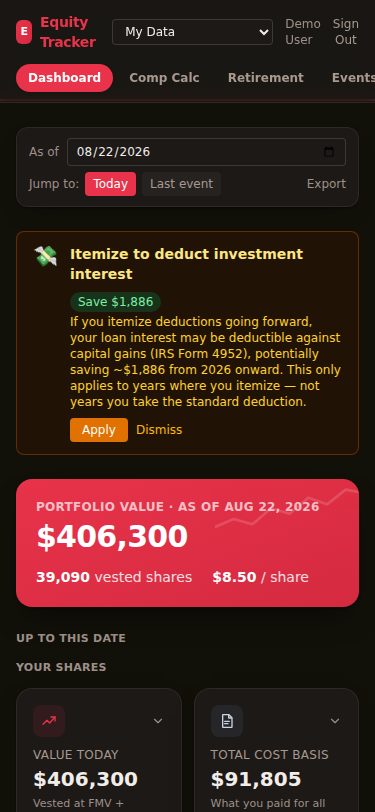
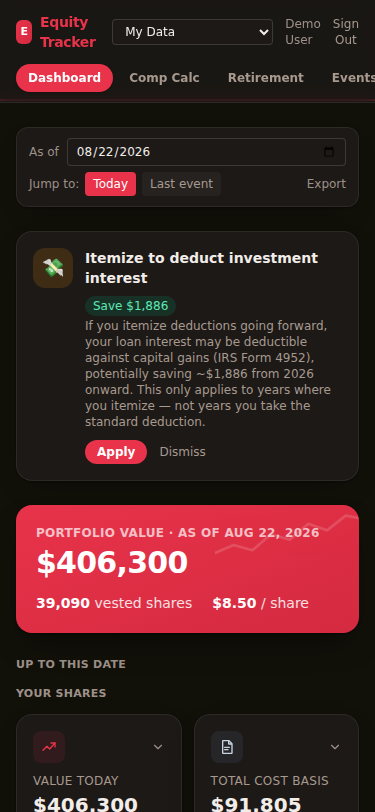
Bring tip/exit-preview cards onto the design system; extend mountain motif
TipCarousel and the dashboard's "Net Cash at Exit" button were still using
the pre-redesign pastel/rounded-lg treatment — rebuilt both on the shared
Card/IconTile primitives (shadow-card, brand-red actions, consistent
chevron affordance) so nothing on the page reads as a leftover.

Also adds an IconMountainFlag glyph and swaps it into the Retirement hero
watermark (was a generic sparkline) so the "journey to a destination"
motif from the welcome-screen illustration carries through to the one
other place in the app estimating a future outcome.

diff --git a/frontend/src/app/components/TipCarousel.tsx b/frontend/src/app/components/TipCarousel.tsx
@@ -2,6 +2,7 @@ import { useCallback, useState } from 'react'
 import { api } from '../../api.ts'
 import type { SmartTip, TaxSettings } from '../../api.ts'
 import { useApiData } from '../hooks/useApiData.ts'
+import { IconTile } from '../../scaffold/components/ui/Card.tsx'
 
 function fmt$(n: number) {
  return n.toLocaleString('en-US', { style: 'currency', currency: 'USD', maximumFractionDigits: 0 })
@@ -65,30 +66,30 @@ export default function TipCarousel({ onApply }: Props) {
  const canNext = index < tips.length - 1
 
  return (
- <div className="rounded-lg border border-amber-200 bg-amber-50 px-4 py-3 dark:border-amber-800/60 dark:bg-amber-950/30">
+ <div className="rounded-2xl border border-cs-border bg-cs-surface p-4 shadow-card">
  <div className="flex items-start gap-3">
- <span className="shrink-0 text-xl leading-none mt-0.5" aria-hidden="true">
- {TIP_ICONS[tip.type]}
- </span>
+ <IconTile tone="amber" className="h-10 w-10 shrink-0 rounded-xl text-lg leading-none">
+ <span aria-hidden="true">{TIP_ICONS[tip.type]}</span>
+ </IconTile>
  <div className="min-w-0 flex-1">
  <div className="flex items-center gap-2 flex-wrap">
- <p className="text-sm font-semibold text-amber-900 dark:text-amber-200">{tip.title}</p>
- <span className="rounded-full bg-green-100 px-2 py-0.5 text-xs font-medium text-green-800 dark:bg-green-900/50 dark:text-green-300">
+ <p className="text-sm font-semibold text-cs-text">{tip.title}</p>
+ <span className="rounded-full bg-emerald-100 px-2 py-0.5 text-xs font-medium text-emerald-800 dark:bg-emerald-500/15 dark:text-emerald-300">
  Save {fmt$(tip.savings)}
  </span>
  </div>
- <p className="mt-0.5 text-xs text-amber-800 dark:text-amber-300">{tip.description}</p>
- <div className="mt-2 flex items-center gap-2">
+ <p className="mt-0.5 text-xs text-cs-text-2">{tip.description}</p>
+ <div className="mt-2.5 flex items-center gap-3">
  <button
  onClick={handleApply}
  disabled={applying}
- className="rounded bg-amber-700 px-3 py-1 text-xs font-medium text-white hover:bg-amber-800 disabled:opacity-60 dark:bg-amber-600 dark:hover:bg-amber-700"
+ className="rounded-full bg-cs-brand px-3 py-1 text-xs font-semibold text-white hover:bg-cs-brand-hover disabled:opacity-60"
  >
  {applying ? 'Applying…' : 'Apply'}
  </button>
  <button
  onClick={handleDismiss}
- className="text-xs text-amber-700 hover:text-amber-900 dark:text-amber-400 dark:hover:text-amber-200"
+ className="text-xs font-medium text-cs-text-2 hover:text-cs-text"
  >
  Dismiss
  </button>
@@ -100,7 +101,7 @@ export default function TipCarousel({ onApply }: Props) {
  onClick={() => setIndex(i => Math.max(0, i - 1))}
  disabled={!canPrev}
  aria-label="Previous tip"
- className="rounded p-0.5 text-amber-700 hover:text-amber-900 disabled:opacity-30 dark:text-amber-400"
+ className="rounded p-0.5 text-cs-text-2 hover:text-cs-text disabled:opacity-30"
  >
  ‹
  </button>
@@ -108,7 +109,7 @@ export default function TipCarousel({ onApply }: Props) {
  onClick={() => setIndex(i => Math.min(tips.length - 1, i + 1))}
  disabled={!canNext}
  aria-label="Next tip"
- className="rounded p-0.5 text-amber-700 hover:text-amber-900 disabled:opacity-30 dark:text-amber-400"
+ className="rounded p-0.5 text-cs-text-2 hover:text-cs-text disabled:opacity-30"
  >
  ›
  </button>
@@ -116,7 +117,7 @@ export default function TipCarousel({ onApply }: Props) {
  )}
  </div>
  {tips.length > 1 && (
- <div className="mt-2 flex justify-center gap-1">
+ <div className="mt-2.5 flex justify-center gap-1">
  {tips.map((_, i) => (
  <button
  key={i}
@@ -124,8 +125,8 @@ export default function TipCarousel({ onApply }: Props) {
  aria-label={`Tip ${i + 1}`}
  className={`h-1.5 rounded-full transition-all ${
  i === index
- ? 'w-4 bg-amber-700 dark:bg-amber-500'
- : 'w-1.5 bg-amber-300 dark:bg-amber-700'
+ ? 'w-4 bg-cs-brand'
+ : 'w-1.5 bg-cs-border-strong'
  }`}
  />
  ))}

diff --git a/frontend/src/app/pages/Dashboard.tsx b/frontend/src/app/pages/Dashboard.tsx
@@ -1939,13 +1939,19 @@ export default function Dashboard() {
  <div className="grid grid-cols-2 gap-3 sm:grid-cols-4">
  <button
  onClick={() => setExitBreakdownOpen(o => !o)}
- className="col-span-2 rounded-lg border border-emerald-200 bg-emerald-50 p-4 text-left dark:border-emerald-800 dark:bg-emerald-950/40"
+ aria-expanded={exitBreakdownOpen}
+ className="col-span-2 rounded-2xl border border-cs-border bg-cs-surface p-4 text-left shadow-card transition hover:-translate-y-0.5 hover:shadow-pop"
  >
- <p className="text-xs font-medium uppercase text-emerald-700 dark:text-emerald-300">Net Cash at Exit</p>
- <p className="mt-1 text-xl font-semibold text-cs-text">{fmt$(exitPreview.net_cash)}</p>
- <p className="mt-1 text-[11px] leading-tight text-cs-muted">
- {exitBreakdownOpen ? '▲ hide breakdown' : '▼ see breakdown'}
- </p>
+ <div className="flex items-center justify-between">
+ <IconTile tone="emerald" className="h-8 w-8 rounded-lg">
+ <IconTrendUp className="h-4 w-4" />
+ </IconTile>
+ <span className={`text-cs-muted transition-transform ${exitBreakdownOpen ? 'rotate-180' : ''}`} aria-hidden="true">
+ <svg viewBox="0 0 24 24" fill="none" className="h-3.5 w-3.5"><path d="M6 9l6 6 6-6" stroke="currentColor" strokeWidth={2} strokeLinecap="round" strokeLinejoin="round" /></svg>
+ </span>
+ </div>
+ <p className="mt-2.5 text-xs font-medium uppercase tracking-wide text-cs-text-2">Net Cash at Exit</p>
+ <p className="mt-0.5 text-xl font-bold tabular-nums text-cs-text">{fmt$(exitPreview.net_cash)}</p>
  </button>
  <Card label="Gross Proceeds" value={fmt$(exitPreview.gross_vested + exitPreview.unvested_cost_proceeds)} variant="gains" subtitle="Liquidated shares × price" />
  <Card label="Loans Paid Off" value={fmt$(exitPreview.outstanding_principal + exitPreview.outstanding_accrued_interest)} variant="loans" subtitle="Principal + accrued interest" />

diff --git a/frontend/src/app/pages/Retirement.tsx b/frontend/src/app/pages/Retirement.tsx
@@ -19,7 +19,7 @@ import { useViewing } from '../../scaffold/contexts/ViewingContext.tsx'
 import { useMe, updateMeCache } from '../../scaffold/hooks/useMe.ts'
 import { HeroCard, IconTile, Eyebrow, type TileTone } from '../../scaffold/components/ui/Card.tsx'
 import { Segmented } from '../../scaffold/components/ui/Segmented.tsx'
-import { Sparkline, IconCompass, IconTrendUp } from '../../scaffold/components/ui/icons.tsx'
+import { IconCompass, IconMountainFlag, IconTrendUp } from '../../scaffold/components/ui/icons.tsx'
 import {
  computeFanPercentiles,
  computeRiskOfRuinTable,
@@ -1374,7 +1374,7 @@ export default function Retirement() {
  const p10Row = finalRows.find(r => Math.round(r.q * 100) === 10)
  const p90Row = finalRows.find(r => Math.round(r.q * 100) === 90)
  return (
- <HeroCard watermark={<Sparkline className="h-24 w-40" color="#fff" />}>
+ <HeroCard watermark={<IconMountainFlag className="h-28 w-28" />}>
  <div className="flex items-center justify-between gap-2">
  <Eyebrow className="text-white/70">Age {params.endAge} estimate range</Eyebrow>
  <IconTile tone="brand" className="h-9 w-9 rounded-lg bg-white/15 text-white">

diff --git a/frontend/src/scaffold/components/ui/icons.tsx b/frontend/src/scaffold/components/ui/icons.tsx
@@ -64,6 +64,23 @@ export function IconBell({ className = base }: IconProps) {
   )
 }
 
+/**
+ * Mountain peak with a summit flag — echoes the welcome-screen hero
+ * illustration's skyline so the "journey to the top" motif carries through
+ * to the other place in the app that talks about a future destination
+ * (the projections hero).
+ */
+export function IconMountainFlag({ className = base }: IconProps) {
+  return (
+    <svg viewBox="0 0 24 24" fill="none" className={className} aria-hidden="true">
+      <path d="M3 19h8.5L8 12l-2.2 3.5L4.5 14 3 19Z" fill="currentColor" opacity={0.5} />
+      <path d="M8 19h13l-6.5-12L11 13l-2-3.2L8 19Z" fill="currentColor" />
+      <path d="M14.5 7 V3" stroke="currentColor" strokeWidth={1.5} strokeLinecap="round" />
+      <path d="M14.5 3.2 18 4.7l-3.5 1.5V3.2Z" fill="currentColor" />
+    </svg>
+  )
+}
+
 export function IconChevronLeft({ className = base }: IconProps) {
   return (
     <svg viewBox="0 0 24 24" fill="none" className={className} aria-hidden="true">
